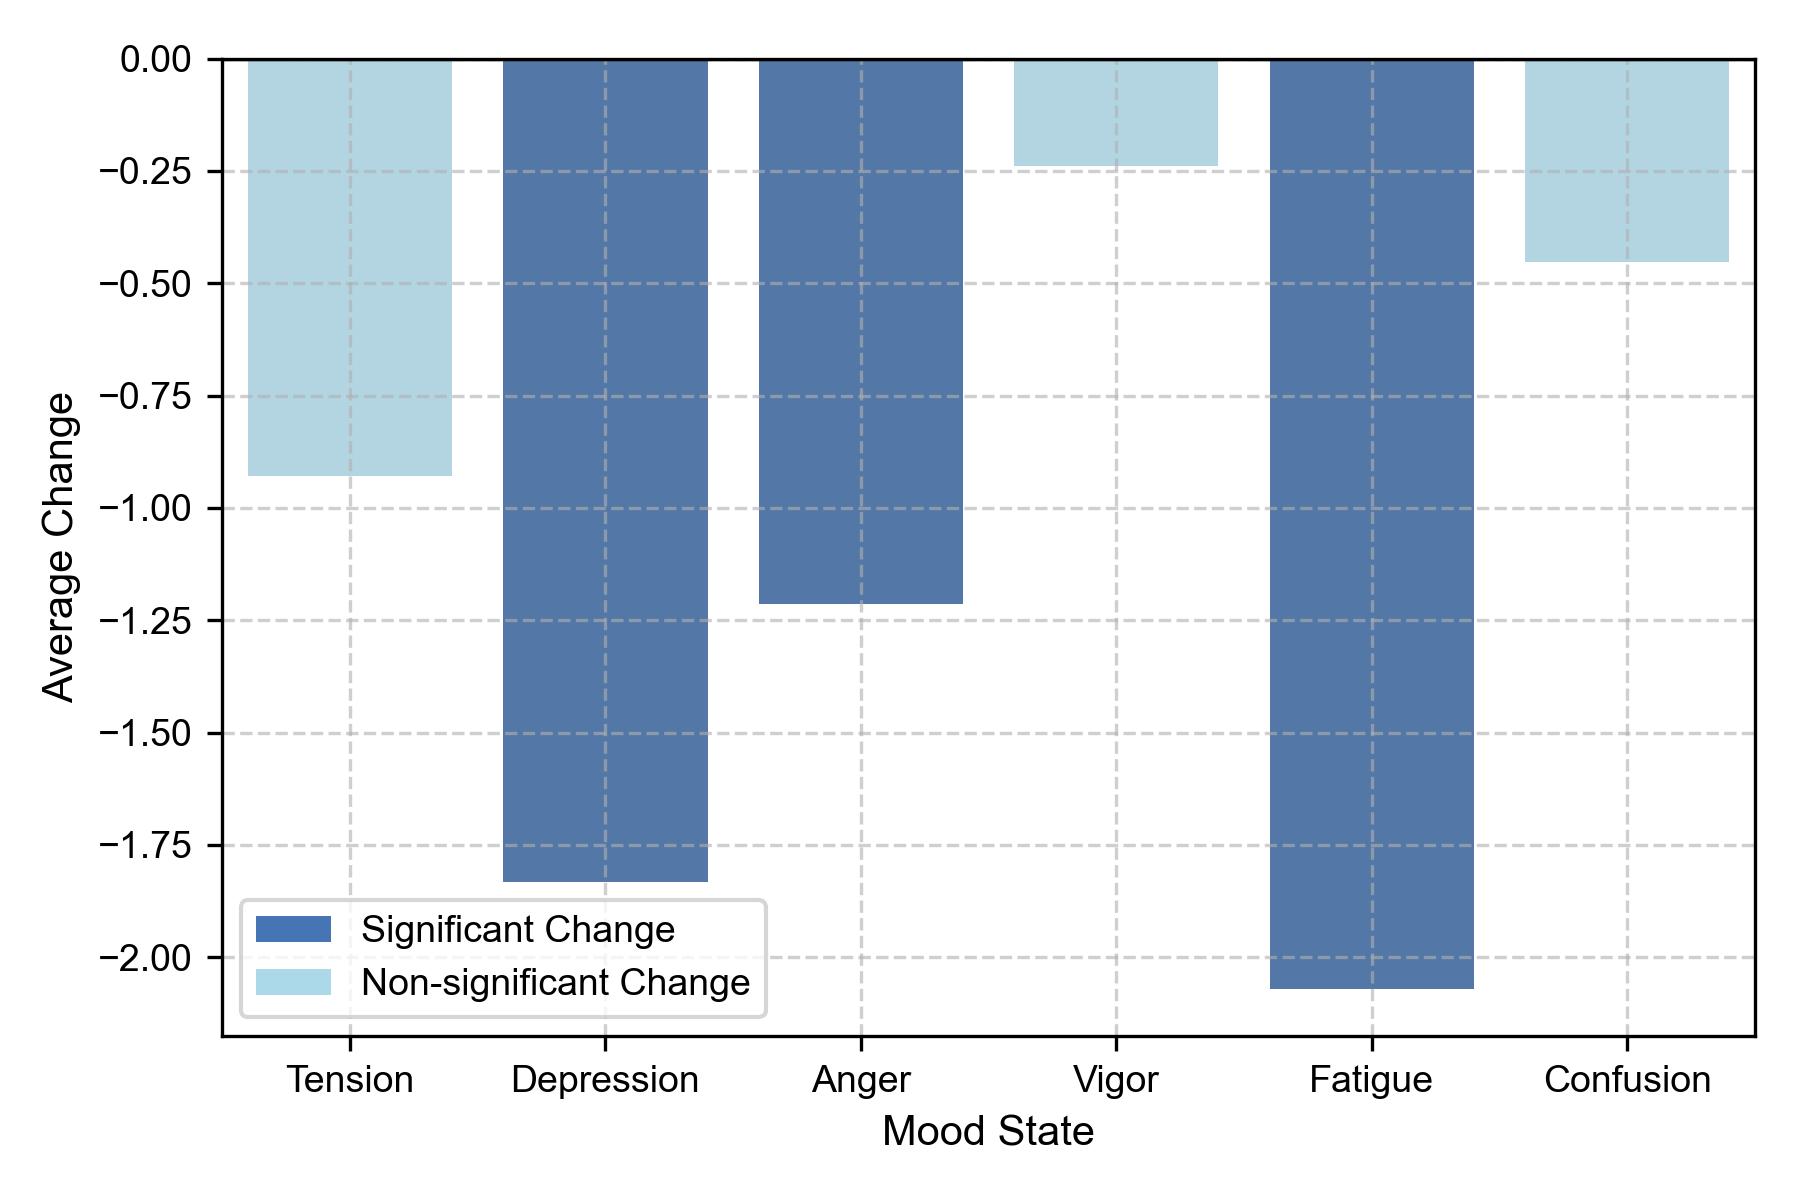
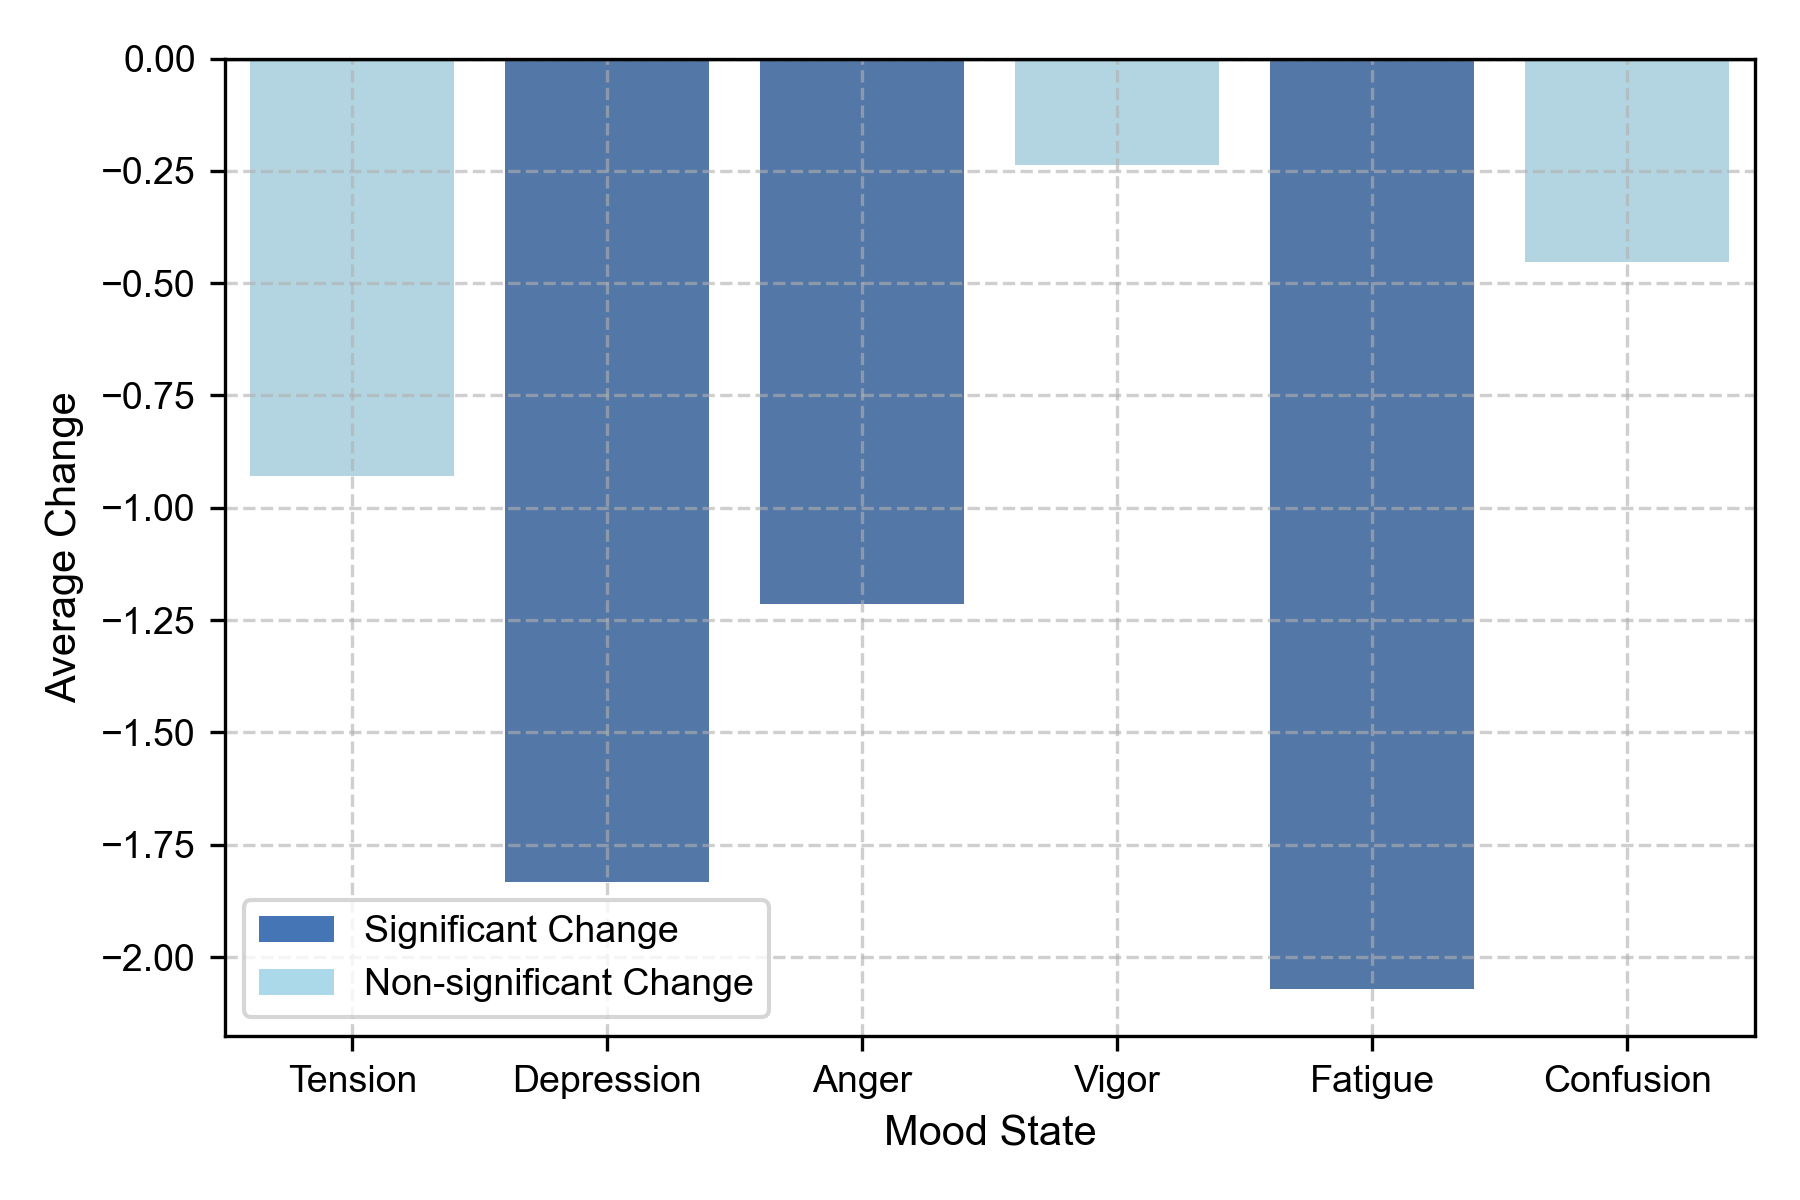
update

diff --git a/POMS/DEQ_descriptive_MS.py b/POMS/DEQ_descriptive_MS.py
@@ -3,6 +3,9 @@ import os
 
 # Define the folder path and file names
 folder_path = 'POMS'
+output_folder_path = os.path.join(folder_path, 'DEQ_descriptive_folder')
+os.makedirs(output_folder_path, exist_ok=True)
+
 file_path_no_ms = 'DEQ_MS_participant_scores.csv'
 file_path_yes_ms = 'DEQ_MSyes_participant_scores.csv'
 
@@ -17,70 +20,105 @@ mood_states = ['Anger', 'Disgust', 'Fear', 'Anxiety', 'Sadness', 'Desire', 'Rela
 conditions = [0, 1, 2]
 condition_labels = {0: 'Condition 0', 1: 'Condition 1', 2: 'Condition 2'}
 
-# Initialize dictionaries to store descriptive statistics for each condition and motion sickness status
+# Initialize dictionaries to store descriptive statistics
 descriptive_stats_no_motion_sickness = {cond: {} for cond in conditions}
 descriptive_stats_motion_sickness = {cond: {} for cond in conditions}
+descriptive_stats_combined_conditions_no_ms = {}
+descriptive_stats_combined_conditions_ms = {}
+descriptive_stats_all_conditions_no_ms = {}
+descriptive_stats_all_conditions_ms = {}
 
 # Function to calculate descriptive statistics for a given dataset
-def calculate_descriptive_stats(data, condition):
+def calculate_descriptive_stats(data, condition=None):
     stats = {}
+    if condition is not None:
+        data = data[data['Condition_x'] == condition]
+    
     for mood in mood_states:
         before_col = f'Before {mood}'
         after_col = f'After {mood}'
 
         stats[mood] = {
-            'Before Mean': data[data['Condition_x'] == condition][before_col].mean(),
-            'Before Median': data[data['Condition_x'] == condition][before_col].median(),
-            'Before Std Dev': data[data['Condition_x'] == condition][before_col].std(),
-            'Before Min': data[data['Condition_x'] == condition][before_col].min(),
-            'Before Max': data[data['Condition_x'] == condition][before_col].max(),
-            'Before Q1': data[data['Condition_x'] == condition][before_col].quantile(0.25),
-            'Before Q3': data[data['Condition_x'] == condition][before_col].quantile(0.75),
-            'Before IQR': data[data['Condition_x'] == condition][before_col].quantile(0.75) - data[data['Condition_x'] == condition][before_col].quantile(0.25),
+            'Before Mean': data[before_col].mean(),
+            'Before Median': data[before_col].median(),
+            'Before Std Dev': data[before_col].std(),
+            'Before Min': data[before_col].min(),
+            'Before Max': data[before_col].max(),
+            'Before Q1': data[before_col].quantile(0.25),
+            'Before Q3': data[before_col].quantile(0.75),
+            'Before IQR': data[before_col].quantile(0.75) - data[before_col].quantile(0.25),
 
-            'After Mean': data[data['Condition_x'] == condition][after_col].mean(),
-            'After Median': data[data['Condition_x'] == condition][after_col].median(),
-            'After Std Dev': data[data['Condition_x'] == condition][after_col].std(),
-            'After Min': data[data['Condition_x'] == condition][after_col].min(),
-            'After Max': data[data['Condition_x'] == condition][after_col].max(),
-            'After Q1': data[data['Condition_x'] == condition][after_col].quantile(0.25),
-            'After Q3': data[data['Condition_x'] == condition][after_col].quantile(0.75),
-            'After IQR': data[data['Condition_x'] == condition][after_col].quantile(0.75) - data[data['Condition_x'] == condition][after_col].quantile(0.25)
+            'After Mean': data[after_col].mean(),
+            'After Median': data[after_col].median(),
+            'After Std Dev': data[after_col].std(),
+            'After Min': data[after_col].min(),
+            'After Max': data[after_col].max(),
+            'After Q1': data[after_col].quantile(0.25),
+            'After Q3': data[after_col].quantile(0.75),
+            'After IQR': data[after_col].quantile(0.75) - data[after_col].quantile(0.25)
         }
     return stats
 
-# Calculate descriptive statistics for No Motion Sickness across all conditions
+# Calculate descriptive statistics for each condition separately
 for cond in conditions:
     descriptive_stats_no_motion_sickness[cond] = calculate_descriptive_stats(data_no_ms, cond)
-
-# Calculate descriptive statistics for Motion Sickness across all conditions
-for cond in conditions:
     descriptive_stats_motion_sickness[cond] = calculate_descriptive_stats(data_yes_ms, cond)
 
+# Calculate descriptive statistics for combined conditions (1 and 2)
+combined_conditions = [1, 2]
+data_no_ms_combined = data_no_ms[data_no_ms['Condition_x'].isin(combined_conditions)]
+data_yes_ms_combined = data_yes_ms[data_yes_ms['Condition_x'].isin(combined_conditions)]
+descriptive_stats_combined_conditions_no_ms = calculate_descriptive_stats(data_no_ms_combined)
+descriptive_stats_combined_conditions_ms = calculate_descriptive_stats(data_yes_ms_combined)
+
+# Calculate descriptive statistics for all conditions combined
+descriptive_stats_all_conditions_no_ms = calculate_descriptive_stats(data_no_ms)
+descriptive_stats_all_conditions_ms = calculate_descriptive_stats(data_yes_ms)
+
 # Convert the descriptive statistics dictionaries to DataFrames
-def stats_to_dataframe(stats, labels):
-    dfs = {}
-    for cond, label in labels.items():
-        df = pd.DataFrame(stats[cond]).T
-        df.columns = [f'{col} ({label})' for col in df.columns]
-        dfs[cond] = df
-    return dfs
+def stats_to_dataframe(stats, labels=None):
+    df = pd.DataFrame(stats).T
+    if labels:
+        df.columns = [f'{col} ({labels})' for col in df.columns]
+    return df
 
 # Convert the statistics to DataFrames
-stats_no_motion_sickness_df = stats_to_dataframe(descriptive_stats_no_motion_sickness, condition_labels)
-stats_motion_sickness_df = stats_to_dataframe(descriptive_stats_motion_sickness, condition_labels)
+stats_no_motion_sickness_df = {cond: stats_to_dataframe(descriptive_stats_no_motion_sickness[cond], condition_labels[cond]) for cond in conditions}
+stats_motion_sickness_df = {cond: stats_to_dataframe(descriptive_stats_motion_sickness[cond], condition_labels[cond]) for cond in conditions}
+
+# Convert combined conditions and all conditions statistics to DataFrames
+combined_conditions_no_ms_df = stats_to_dataframe(descriptive_stats_combined_conditions_no_ms, 'Conditions 1+2 Combined')
+combined_conditions_ms_df = stats_to_dataframe(descriptive_stats_combined_conditions_ms, 'Conditions 1+2 Combined')
+all_conditions_no_ms_df = stats_to_dataframe(descriptive_stats_all_conditions_no_ms, 'All Conditions')
+all_conditions_ms_df = stats_to_dataframe(descriptive_stats_all_conditions_ms, 'All Conditions')
 
 # Concatenate data for all conditions
 combined_no_ms_df = pd.concat([stats_no_motion_sickness_df[0], stats_no_motion_sickness_df[1], stats_no_motion_sickness_df[2]], axis=1)
 combined_yes_ms_df = pd.concat([stats_motion_sickness_df[0], stats_motion_sickness_df[1], stats_motion_sickness_df[2]], axis=1)
 
 # Save the descriptive statistics to CSV files
-combined_no_ms_df.to_csv('descriptive_statistics_no_motion_sickness.csv')
-combined_yes_ms_df.to_csv('descriptive_statistics_motion_sickness.csv')
+combined_no_ms_df.to_csv(os.path.join(output_folder_path, 'descriptive_statistics_no_motion_sickness_by_condition.csv'))
+combined_yes_ms_df.to_csv(os.path.join(output_folder_path, 'descriptive_statistics_motion_sickness_by_condition.csv'))
+combined_conditions_no_ms_df.to_csv(os.path.join(output_folder_path, 'descriptive_statistics_no_motion_sickness_combined_conditions.csv'))
+combined_conditions_ms_df.to_csv(os.path.join(output_folder_path, 'descriptive_statistics_motion_sickness_combined_conditions.csv'))
+all_conditions_no_ms_df.to_csv(os.path.join(output_folder_path, 'descriptive_statistics_no_motion_sickness_all_conditions.csv'))
+all_conditions_ms_df.to_csv(os.path.join(output_folder_path, 'descriptive_statistics_motion_sickness_all_conditions.csv'))
 
 # Print the descriptive statistics for both conditions
-print("Descriptive Statistics for No Motion Sickness:")
+print("Descriptive Statistics for No Motion Sickness by Condition:")
 print(combined_no_ms_df)
 
-print("\nDescriptive Statistics for Motion Sickness:")
+print("\nDescriptive Statistics for Motion Sickness by Condition:")
 print(combined_yes_ms_df)
+
+print("\nDescriptive Statistics for No Motion Sickness for Combined Conditions 1+2:")
+print(combined_conditions_no_ms_df)
+
+print("\nDescriptive Statistics for Motion Sickness for Combined Conditions 1+2:")
+print(combined_conditions_ms_df)
+
+print("\nDescriptive Statistics for No Motion Sickness for All Conditions:")
+print(all_conditions_no_ms_df)
+
+print("\nDescriptive Statistics for Motion Sickness for All Conditions:")
+print(all_conditions_ms_df)

diff --git a/POMS/DEQ_MS_pairedttest.py b/POMS/DEQ_MS_pairedttest.py
@@ -40,6 +40,7 @@ def analyze_and_plot(group_data, group_name):
         mean_diff = mood_change.mean()
         std_diff = mood_change.std()
         effect_size = cohen_d(mood_change, np.zeros(len(mood_change)))  # Calculate Cohen's d
+        df = len(mood_change) - 1  # Calculate degrees of freedom
 
         results.append({
             'Mood': mood,
@@ -47,10 +48,12 @@ def analyze_and_plot(group_data, group_name):
             'Standard Deviation': std_diff,
             'p-value': p_val,
             'Cohen\'s d': effect_size,
+            'Degrees of Freedom': df,
+            't-statistic': t_stat,
             'Group': group_name
         })
         
-        print(f"{group_name} - {mood}: Mean Difference = {mean_diff:.2f}, Std Dev = {std_diff:.2f}, p-value = {p_val:.4f}, Cohen's d = {effect_size:.2f}")
+        print(f"{group_name} - {mood}: Mean Difference = {mean_diff:.2f}, Std Dev = {std_diff:.2f}, p-value = {p_val:.4f}, Cohen's d = {effect_size:.2f}, df = {df}, t-statistic = {t_stat:.2f}")
 
     results_df = pd.DataFrame(results)
     plt.figure(figsize=(12, 8))
@@ -67,3 +70,21 @@ analyze_and_plot(no_motion_sickness, "No Motion Sickness")
 
 # Analyze and plot for motion sickness group
 analyze_and_plot(motion_sickness, "Motion Sickness")
+
+# Perform statistical analysis for each condition and all conditions combined
+def analyze_conditions(data, group_name):
+    conditions = data['Condition_x'].unique()
+    combined_conditions = [1, 2]  # Combining conditions 1 and 2
+
+    for condition in conditions:
+        condition_data = data[data['Condition_x'] == condition]
+        analyze_and_plot(condition_data, f"{group_name} - Condition {condition}")
+
+    combined_data = data[data['Condition_x'].isin(combined_conditions)]
+    analyze_and_plot(combined_data, f"{group_name} - Combined Condition 1 & 2")
+
+# Analyze for no motion sickness group
+analyze_conditions(no_motion_sickness, "No Motion Sickness")
+
+# Analyze for motion sickness group
+analyze_conditions(motion_sickness, "Motion Sickness")

diff --git a/POMS/DEQ_ALL_mood_changes.py b/POMS/DEQ_ALL_mood_changes.py
@@ -46,6 +46,9 @@ plt.xlabel('Mood State')
 plt.ylabel('Average Change')
 plt.axhline(0, color='black', linewidth=0.8)
 
+plt.yticks(np.arange(-3.0, 3.0, 0.5))
+
+
 # Adding legend
 from matplotlib.patches import Patch
 legend_elements = [Patch(facecolor='#4575b4', label='Significant Change'),
